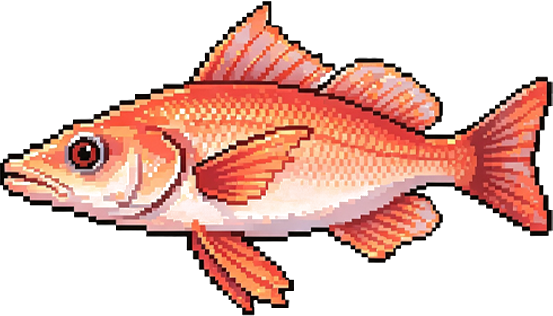
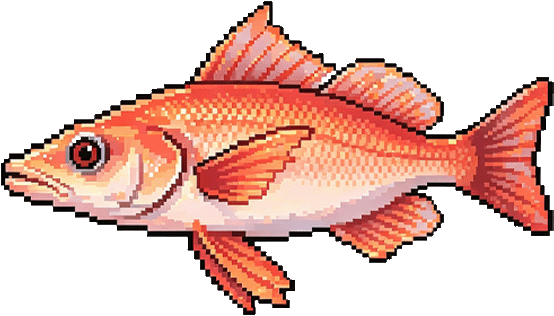
替换为真透明背景的鱼抠图（10条全部透明，去掉深海蓝底）

diff --git a/assets/js/checkin.js b/assets/js/checkin.js
@@ -7,11 +7,11 @@ const Checkin = {
   // 海洋生物图鉴（30种，按稀有度分）
   fishCollection: [
     // 普通
-    { id:'f01', emoji:'🐟', name:'沙丁鱼', desc:'成群结队的旅行者', img:'assets/img/fish/sardine.png', cutout:'assets/img/fish-cutout/sardine.png', cutoutType:'ocean', rarity:'common', unlockAt:1 },
+    { id:'f01', emoji:'🐟', name:'沙丁鱼', desc:'成群结队的旅行者', img:'assets/img/fish/sardine.png', cutout:'assets/img/fish-cutout/sardine.png', cutoutType:'transparent', rarity:'common', unlockAt:1 },
     { id:'f02', emoji:'🐟', name:'石斑鱼', desc:'礁石间的巨大猎手', img:'assets/img/fish/grouper.png', cutout:'assets/img/fish-cutout/grouper.png', cutoutType:'transparent', rarity:'common', unlockAt:3 },
-    { id:'f03', emoji:'🐟', name:'剑鱼', desc:'速度惊人的海洋剑客', img:'assets/img/fish/swordfish.png', cutout:'assets/img/fish-cutout/swordfish.png', cutoutType:'ocean', rarity:'common', unlockAt:5 },
+    { id:'f03', emoji:'🐟', name:'剑鱼', desc:'速度惊人的海洋剑客', img:'assets/img/fish/swordfish.png', cutout:'assets/img/fish-cutout/swordfish.png', cutoutType:'transparent', rarity:'common', unlockAt:5 },
     { id:'f04', emoji:'🐟', name:'大黄鱼', desc:'南海的黄金美味', img:'assets/img/fish/croaker.png', cutout:'assets/img/fish-cutout/croaker.png', cutoutType:'transparent', rarity:'common', unlockAt:7 },
-    { id:'f05', emoji:'🐟', name:'带鱼', desc:'深海中的银色长刀', img:'assets/img/fish/hairtail.png', cutout:'assets/img/fish-cutout/hairtail.png', cutoutType:'ocean', rarity:'common', unlockAt:10 },
+    { id:'f05', emoji:'🐟', name:'带鱼', desc:'深海中的银色长刀', img:'assets/img/fish/hairtail.png', cutout:'assets/img/fish-cutout/hairtail.png', cutoutType:'transparent', rarity:'common', unlockAt:10 },
     { id:'f06', emoji:'🐟', name:'比目鱼', desc:'左右不对称的伪装大师', img:'assets/img/fish/flounder.png', cutout:'assets/img/fish-cutout/flounder.png', cutoutType:'transparent', rarity:'common', unlockAt:12 },
     { id:'f07', emoji:'🐟', name:'海鲈鱼', desc:'近海常见的勇猛猎手', img:'assets/img/fish/bass.png', cutout:'assets/img/fish-cutout/bass.png', cutoutType:'transparent', rarity:'common', unlockAt:15 },
     { id:'f08', emoji:'🐟', name:'黑鲷', desc:'礁石区的黑色贵客', img:'assets/img/fish/black_seabream.png', cutout:'assets/img/fish-cutout/black_seabream.png', cutoutType:'transparent', rarity:'common', unlockAt:18 },
@@ -39,7 +39,7 @@ const Checkin = {
     { id:'f26', emoji:'🧜♂', name:'波塞冬', desc:'海洋之主，掌控潮汐', rarity:'legendary', unlockAt:150 },
     { id:'f27', emoji:'🌟', name:'海之灵', desc:'海洋之心的守护精灵', rarity:'epic', unlockAt:50 },
     { id:'f28', emoji:'🐟', name:'红鲈', desc:'赤红身影的浅海猎手', img:'assets/img/fish/rockfish.png', cutout:'assets/img/fish-cutout/rockfish.png', cutoutType:'transparent', rarity:'common', unlockAt:2 },
-    { id:'f29', emoji:'🐟', name:'黄尾笛鲷', desc:'尾巴金黄的热带鱼', img:'assets/img/fish/yellowtail_snapper.png', cutout:'assets/img/fish-cutout/yellowtail_snapper.png', cutoutType:'ocean', rarity:'common', unlockAt:4 },
+    { id:'f29', emoji:'🐟', name:'黄尾笛鲷', desc:'尾巴金黄的热带鱼', img:'assets/img/fish/yellowtail_snapper.png', cutout:'assets/img/fish-cutout/yellowtail_snapper.png', cutoutType:'transparent', rarity:'common', unlockAt:4 },
     { id:'f30', emoji:'🔮', name:'深海珍珠', desc:'月光凝结的结晶', rarity:'rare', unlockAt:20 },
   ],
 
